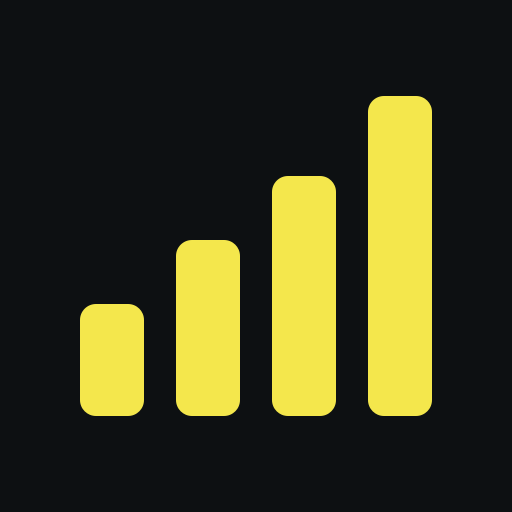
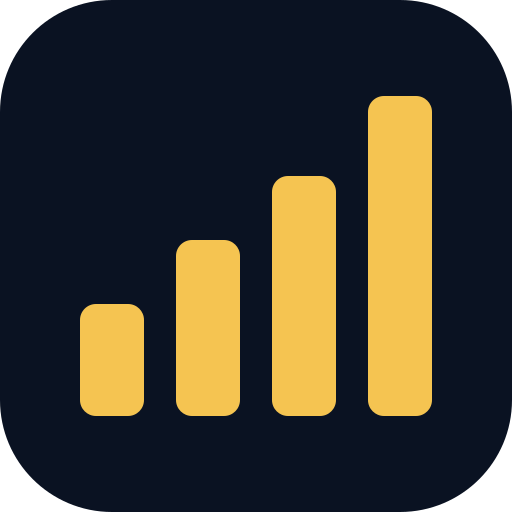
Navy & gold: Tenqay's palette
The trial is over: gold #f5c451 on navy #0a1222 is the terminal's palette,
the welcome tour's too (on navy, no longer on black), and the favicon's and
the app icons'. The palette chooser leaves SET; the charts keep their own
colours, as under every palette.

diff --git a/app/io.css b/app/io.css
@@ -2692,7 +2692,7 @@ body:has(.io) { margin: 0; background: var(--bg, #fff); }
 .candle-plot:hover .candle-nav, .candle-nav:focus-within { opacity: 1; }
 .candle-nav button, .candle-latest, .candle-auto {
   min-width: 24px; height: 22px; padding: 0 6px; font: inherit; font-family: var(--mono); font-size: 12px; line-height: 1;
-  color: var(--ink); background: color-mix(in srgb, var(--bg, #0d1012) 86%, transparent); border: 1px solid var(--line-strong); border-radius: 3px; cursor: pointer;
+  color: var(--ink); background: color-mix(in srgb, var(--bg, #0a1222) 86%, transparent); border: 1px solid var(--line-strong); border-radius: 3px; cursor: pointer;
 }
 .candle-nav button:hover, .candle-latest:hover, .candle-auto:hover { border-color: var(--ink-3); }
 .candle-latest { position: absolute; right: 10px; bottom: 10px; z-index: 4; }
@@ -2702,20 +2702,20 @@ body:has(.io) { margin: 0; background: var(--bg, #fff); }
 .drawing-position { fill-opacity: .17; stroke: none; }
 .study-notes .drawing-handle {
   width: 9px; height: 9px; padding: 0; transform: translate(-50%, -50%);
-  background: var(--bg, #0d1012); border: 1.5px solid var(--draw, #4c8dff); border-radius: 50%;
+  background: var(--bg, #0a1222); border: 1.5px solid var(--draw, #4c8dff); border-radius: 50%;
 }
 .study-notes .drawing-label {
   transform: translate(-50%, 4px); padding: 2px 5px; border-radius: 2px; white-space: nowrap;
-  color: var(--ink); background: color-mix(in srgb, var(--bg, #0d1012) 82%, transparent);
+  color: var(--ink); background: color-mix(in srgb, var(--bg, #0a1222) 82%, transparent);
 }
 .study-notes .drawing-label-left { transform: none; margin-left: 2px; }
 .study-notes .drawing-label[data-tone="good"] { color: var(--gain); }
 .study-notes .drawing-label[data-tone="bad"] { color: var(--loss); }
-.study-notes .drawing-text { transform: translateY(-100%); font-family: var(--sans, inherit); font-weight: 600; white-space: pre; text-shadow: 0 0 3px var(--bg, #0d1012); }
+.study-notes .drawing-text { transform: translateY(-100%); font-family: var(--sans, inherit); font-weight: 600; white-space: pre; text-shadow: 0 0 3px var(--bg, #0a1222); }
 .drawing-bar {
   position: absolute; top: 6px; left: 50%; z-index: 5; display: flex; flex-wrap: wrap; align-items: center; gap: 6px; max-width: calc(100% - 12px);
   padding: 4px 6px; transform: translateX(-50%); font-size: var(--fs-micro, 10px);
-  background: color-mix(in srgb, var(--bg, #0d1012) 94%, transparent); border: 1px solid var(--line-strong); border-radius: 3px; cursor: default;
+  background: color-mix(in srgb, var(--bg, #0a1222) 94%, transparent); border: 1px solid var(--line-strong); border-radius: 3px; cursor: default;
 }
 .drawing-bar > button { height: 22px; padding: 0 7px; font: inherit; color: var(--ink); background: transparent; border: 1px solid var(--line-strong); border-radius: 2px; cursor: pointer; }
 .drawing-bar > button[aria-pressed="true"] { color: var(--inverse, #000); background: var(--ink); }
@@ -2731,14 +2731,14 @@ body:has(.io) { margin: 0; background: var(--bg, #fff); }
 .candle-events { position: absolute; left: 0; right: 0; bottom: 0; height: 0; z-index: 3; pointer-events: none; }
 .candle-event {
   position: absolute; bottom: 4px; display: grid; place-items: center; width: 15px; height: 15px; transform: translateX(-50%);
-  font-family: var(--mono); font-size: 9px; font-weight: 700; line-height: 1; color: #0d1012; border-radius: 50%; pointer-events: auto; cursor: default;
+  font-family: var(--mono); font-size: 9px; font-weight: 700; line-height: 1; color: #0a1222; border-radius: 50%; pointer-events: auto; cursor: default;
 }
 .candle-event[data-kind="earnings"] { background: #ffa028; }
 .candle-event[data-kind="dividend"] { bottom: 22px; background: #26a69a; }
 .candle-event:hover { outline: 2px solid var(--ink); outline-offset: 1px; }
 .candle-event-card {
   position: absolute; bottom: 42px; transform: translateX(-50%); padding: 4px 7px; white-space: nowrap; pointer-events: none;
-  font-family: var(--mono); font-size: var(--fs-micro); color: var(--ink); background: var(--bg, #0d1012); border: 1px solid var(--line-strong); border-radius: 2px;
+  font-family: var(--mono); font-size: var(--fs-micro); color: var(--ink); background: var(--bg, #0a1222); border: 1px solid var(--line-strong); border-radius: 2px;
 }
 .candle-event-card b { font-weight: 600; margin-right: 4px; }
 .candle-event-card[data-tone="good"] { border-color: var(--gain); }
@@ -2751,7 +2751,7 @@ body:has(.io) { margin: 0; background: var(--bg, #fff); }
 .candle-plot[data-tool="pick"] { cursor: col-resize; }
 .candle-pick-note {
   position: absolute; top: 8px; left: 50%; z-index: 5; transform: translateX(-50%); padding: 3px 8px; pointer-events: none;
-  font-size: var(--fs-micro); color: var(--inverse, #000); background: var(--amber, #f4e74c); border-radius: 2px;
+  font-size: var(--fs-micro); color: var(--inverse, #000); background: var(--amber, #f5c451); border-radius: 2px;
 }
 /* The candles drawn as paths (CandlePaths in components/io/CandleChart.tsx). */
 .candle-up .candle-wick { fill: none; stroke: var(--gain); stroke-width: 1; }
@@ -2760,7 +2760,7 @@ body:has(.io) { margin: 0; background: var(--bg, #fff); }
 .candle-down .candle-fill { fill: var(--loss); }
 /* The title line a chart picture carries (components/io/chart-export.ts). */
 .candle-export-head { display: flex; align-items: baseline; gap: 10px; padding: 6px 4px 8px; font-family: var(--mono); font-size: 13px; color: var(--ink-2); }
-.candle-export-head b { color: var(--amber, #f4e74c); font-size: 15px; letter-spacing: .02em; }
+.candle-export-head b { color: var(--amber, #f5c451); font-size: 15px; letter-spacing: .02em; }
 .candle-export-head .candle-export-source { margin-left: auto; color: var(--ink-3); font-size: 11px; }
 /* An earnings marker: a button to the company's Earnings reaction, and its card. */
 button.candle-event { padding: 0; border: 0; cursor: pointer; }
@@ -2772,4 +2772,4 @@ button.candle-event { padding: 0; border: 0; cursor: pointer; }
 .candle-event-card .release-grid > b { text-align: right; font-weight: 600; color: var(--ink); margin: 0; }
 .candle-event-card .release-grid > b[data-tone="good"] { color: var(--gain); }
 .candle-event-card .release-grid > b[data-tone="bad"] { color: var(--loss); }
-.candle-event-card .release-hint { margin-top: 3px; color: var(--amber, #f4e74c); font-size: 10px; }
+.candle-event-card .release-hint { margin-top: 3px; color: var(--amber, #f5c451); font-size: 10px; }

diff --git a/app/terminal.css b/app/terminal.css
@@ -39,15 +39,15 @@
   --page: none;
   --radius: 0;
 
-  --bg: #0d1012;
-  --raise: #12161a;
-  --fill: #1a1f24;
-  --line: #1c2126;
-  --line-strong: #2c3238;
-  --ink: #e9edf2;
-  --ink-2: #a1a8b0;
-  --ink-3: #6b737c;
-  --inverse: #0d1012;
+  --bg: #0a1222;
+  --raise: #0e1729;
+  --fill: #142036;
+  --line: #18243a;
+  --line-strong: #26354f;
+  --ink: #e8edf6;
+  --ink-2: #a3aec2;
+  --ink-3: #6c7891;
+  --inverse: #0a1222;
   /*
    * Charts keep the colours they had from the start, whatever the accent of
    * the day: a plot is blue by default, a price green or red by which way it
@@ -65,18 +65,18 @@
   --c6: #38bdf8;
   --c7: #e879f9;
   --c8: #a3e635;
-  --shade: rgba(244, 231, 76, .06);
+  --shade: rgba(245, 196, 81, .06);
   --gain: #2ed47d;
   --loss: #ff5149;
 
   --chart-amber: #ffa028;
   --chart-amber-dim: rgba(255, 160, 40, .55);
-  /* The accent, Tenqay's identity: acid yellow (the names stay: every interface rule reads --amber). */
-  --amber: #f4e74c;
-  --amber-ink: #0d1012;
+  /* The accent, Tenqay's identity: gold on navy (the names stay: every interface rule reads --amber). */
+  --amber: #f5c451;
+  --amber-ink: #0a1222;
   --amber-dim: color-mix(in srgb, var(--amber) 55%, transparent);
   --cyan: #5ec8ff;
-  --head: #111519;
+  --head: #0c1426;
 
   color-scheme: dark;
   font-size: var(--fs-md);
@@ -86,8 +86,8 @@
 }
 
 /* The page behind the page, whatever the document site's theme says. */
-:root:has(.io.term), :root[data-theme]:has(.io.term) { background: var(--page-bg, #0d1012); }
-body:has(.io.term) { background: var(--page-bg, #0d1012); }
+:root:has(.io.term), :root[data-theme]:has(.io.term) { background: #0a1222; }
+body:has(.io.term) { background: #0a1222; }
 
 .term ::selection { background: var(--amber); color: var(--amber-ink); }
 .term :focus-visible { outline: 1px solid var(--amber); outline-offset: 1px; border-radius: 0; }
@@ -1013,7 +1013,6 @@ body:has(.io.term) { background: var(--page-bg, #0d1012); }
 /* --- Settings (SET) ------------------------------------------------------- */
 
 .t-settings { align-items: start; grid-template-areas:
-  "palette palette palette palette palette palette palette palette palette palette palette palette"
   "display display display display display display start start start start start start"
   "alerts alerts alerts alerts alerts alerts account account account account account account"
   "kept kept kept kept kept kept kept kept kept kept kept kept"
@@ -1037,7 +1036,7 @@ body:has(.io.term) { background: var(--page-bg, #0d1012); }
 .t-about p { color: var(--ink-2); margin-bottom: 8px; }
 .t-about code { color: var(--amber); font: inherit; }
 .t-about a { color: var(--amber); }
-@media (max-width: 1100px) { .t-settings { grid-template-areas: "palette" "display" "start" "alerts" "account" "kept" "keys" "about"; grid-template-columns: minmax(0, 1fr); } .t-set-sample { margin-left: 0; } }
+@media (max-width: 1100px) { .t-settings { grid-template-areas: "display" "start" "alerts" "account" "kept" "keys" "about"; grid-template-columns: minmax(0, 1fr); } .t-set-sample { margin-left: 0; } }
 
 /*
  * A finger is not a pointer: on a touch screen the tape, the function keys,
@@ -1514,8 +1513,8 @@ body:has(.io.term) { background: var(--page-bg, #0d1012); }
 .t-keystats-notes .stat-note { margin: 4px 0 0; }
 
 /* TOUR · the welcome tour (components/term/Welcome.tsx): on black, without the terminal's frame; each step a live screenshot. */
-:root body .io.term.t-tour { --bg: #000; --raise: #0a0a0b; --fill: #141416; --head: #060607; --line: #1a1a1d; --line-strong: #2a2a2e; min-height: 100vh; background: #000; }
-:root:has(.t-tour), :root[data-theme]:has(.t-tour), body:has(.t-tour) { background: #000; }
+:root body .io.term.t-tour { min-height: 100vh; background: var(--bg); }
+:root:has(.t-tour), :root[data-theme]:has(.t-tour), body:has(.t-tour) { background: #0a1222; }
 .t-wel { width: 100%; max-width: 1240px; min-height: 100vh; margin: 0 auto; padding: 22px 20px 28px; display: grid; grid-template-columns: minmax(0, 1fr); grid-template-rows: auto auto minmax(0, 1fr) auto; gap: 14px; }
 .t-wel-progress { height: 3px; background: var(--line-strong); }
 .t-wel-progress > span { display: block; height: 100%; background: var(--amber); transition: width .25s ease; }
@@ -1679,15 +1678,3 @@ html.t-noscroll, html.t-noscroll body { overflow: hidden; }
 .t-keystats [data-drawable]:hover dd { text-decoration: underline dotted; text-underline-offset: 2px; }
 .t-keystats [data-drawable][aria-pressed="true"] { background: color-mix(in srgb, var(--amber) 14%, transparent); }
 .t-keystats [data-drawable][aria-pressed="true"] dt { color: var(--amber); }
-
-/* The palettes on trial (SET): each a small terminal in its own colours. */
-.t-palettes { display: grid; grid-template-columns: repeat(auto-fill, minmax(180px, 1fr)); gap: 8px; }
-.t-palette { display: grid; gap: 4px; padding: 0 0 8px; text-align: left; font: inherit; border: 2px solid; cursor: pointer; }
-.t-palette[aria-checked="true"] { box-shadow: 0 0 0 1px var(--amber); }
-.t-palette-bar { display: flex; align-items: center; gap: 8px; padding: 4px 6px; border-bottom: 1px solid; font-size: var(--fs-micro); }
-.t-palette-bar b { padding: 0 4px; font-weight: 700; }
-.t-palette-bar i, .t-palette-bar em { font-style: normal; font-weight: 600; }
-.t-palette-body { display: grid; gap: 4px; margin: 2px 6px; padding: 6px; border: 1px solid; }
-.t-palette-body i { display: block; height: 6px; }
-.t-palette-name { padding: 0 8px; font-size: var(--fs-xs); font-weight: 700; }
-.t-palette-note { padding: 0 8px; font-size: var(--fs-micro); line-height: 1.3; }

diff --git a/components/term/TermSettings.tsx b/components/term/TermSettings.tsx
@@ -8,7 +8,6 @@ import { SYNC_EVENT, syncStatus } from "@/components/io/AccountSync";
 import { parseRules, RULES_KEY } from "@/lib/alert-rules";
 import { COMPANY_FUNCTIONS, GLOBAL_FUNCTIONS } from "@/lib/term/command";
 import { START_SCREENS, useTermPrefs, writePrefs, type Clock, type Density, type UpDown } from "./prefs";
-import { PALETTES } from "@/lib/term/palettes";
 import { Panel } from "./Panel";
 
 /**
@@ -130,34 +129,6 @@ export function TermSettings() {
   return (
     <div className="t-grid t-settings">
       {message ? <p className="t-set-message" role="status">{message} <button type="button" className="t-alrt-link" onClick={() => setMessage(null)}>Dismiss</button></p> : null}
-
-      {/* The palettes on trial: the one kept will become Tenqay's own, and this choice will go. */}
-      <Panel code="SET" title="Colour palette · trial" area="palette">
-        <div className="t-panel-pad">
-          <div className="t-palettes" role="radiogroup" aria-label="Colour palette">
-            {PALETTES.map((palette) => (
-              <button
-                key={palette.id} type="button" role="radio" aria-checked={prefs.palette === palette.id}
-                className="t-palette" onClick={() => writePrefs({ palette: palette.id })}
-                style={{ background: palette.bg, borderColor: prefs.palette === palette.id ? palette.accent : palette.lineStrong, color: palette.ink }}
-              >
-                <span className="t-palette-bar" style={{ background: palette.head, borderBottomColor: palette.line }}>
-                  <b style={{ background: palette.accent, color: palette.accentInk }}>TQ</b>
-                  <i style={{ color: palette.accent }}>AAPL</i>
-                  <em style={{ color: palette.ink2 }}>GP</em>
-                </span>
-                <span className="t-palette-body" style={{ background: palette.raise, borderColor: palette.line }}>
-                  <i style={{ background: palette.fill }} />
-                  <i style={{ background: palette.fill, width: "60%" }} />
-                </span>
-                <span className="t-palette-name">{palette.name}</span>
-                <span className="t-palette-note" style={{ color: palette.ink3 }}>{palette.note}</span>
-              </button>
-            ))}
-          </div>
-          <p className="t-study-note">Applied at once to the whole terminal; the charts keep their own colours. Kept on this device.</p>
-        </div>
-      </Panel>
 
       <Panel code="SET" title="Display" area="display">
         <div className="t-panel-pad t-set-body">

diff --git a/components/term/Economy.tsx b/components/term/Economy.tsx
@@ -228,7 +228,7 @@ export function EconomyScreen() {
   );
 }
 
-const COLORS = { blue: "var(--c1, #4c8dff)", amber: "var(--amber, #f4e74c)", teal: "var(--c3, #2bb3a3)", violet: "var(--c4, #9a7bff)" };
+const COLORS = { blue: "var(--c1, #4c8dff)", amber: "var(--amber, #f5c451)", teal: "var(--c3, #2bb3a3)", violet: "var(--c4, #9a7bff)" };
 
 function EconCharts({ series }: { series: EconSeries[] }) {
   const find = (id: string) => series.find((entry) => entry.id === id);
@@ -301,7 +301,7 @@ function EconHistory({ name, events, onClose }: { name: string; events: EconEven
   const values = points.map((point) => point.value);
   const format = (value: number | null | undefined) => (value == null ? "—" : percent ? `${value.toFixed(2)}%` : series?.unit === "index" ? value.toFixed(1) : series?.id === "JTS000000000000000JOL" ? `${(value / 1000).toFixed(2)}M` : `${value >= 0 ? "+" : "−"}${Math.abs(Math.round(value)).toLocaleString("en-US")}K`);
   const kind: "bar" | "line" = spec && (spec.transform === "mom" || spec.transform === "diff" || quarterly) ? "bar" : "line";
-  const chartSpec = { id: id ?? "series", label: spec?.label ?? name, kind, axis: "left" as const, color: "var(--amber, #f4e74c)", value: () => null };
+  const chartSpec = { id: id ?? "series", label: spec?.label ?? name, kind, axis: "left" as const, color: "var(--amber, #f5c451)", value: () => null };
   const preset: Preset = { id: `history-${id}`, title: spec?.label ?? name, left: percent ? "percent" : "shares", series: [chartSpec] };
   const data: ChartData = {
     labels: points.map((point) => periodLabel(point.period)),

diff --git a/components/term/TermShell.tsx b/components/term/TermShell.tsx
@@ -1,7 +1,6 @@
 "use client";
 
-import { Fragment, useEffect, useMemo, useRef, useState, useSyncExternalStore } from "react";
-import { paletteById, paletteVariables } from "@/lib/term/palettes";
+import { Fragment, useEffect, useRef, useState, useSyncExternalStore } from "react";
 import { COMPANY_FUNCTIONS, GLOBAL_FUNCTIONS, hrefFor, LAUNCHPAD_PANELS, terminalHref } from "@/lib/term/command";
 import { marketState, newYorkTime } from "@/lib/term/market-clock";
 import { useStoredWatchlist } from "@/components/io/watchlist";
@@ -312,17 +311,11 @@ export function TermShell({ ticker = null, bare = false, children }: {
 }) {
   const [helpOpen, setHelpOpen] = useState(false);
   const prefs = useTermPrefs();
-  // The palette on trial: its colours as the terminal's variables, and the page behind it in its background.
-  const palette = paletteById(prefs.palette);
-  const paletteStyle = useMemo(() => paletteVariables(palette) as React.CSSProperties, [palette]);
-  useEffect(() => {
-    document.documentElement.style.setProperty("--page-bg", palette.bg);
-  }, [palette]);
   useFocusedPanel();
   useTerminalLinks();
   useTableKeys();
   return (
-    <div className="io term" data-density={prefs.density} data-colors={prefs.colors} data-palette={prefs.palette} style={paletteStyle}>
+    <div className="io term" data-density={prefs.density} data-colors={prefs.colors}>
       <a className="skip-link" href="#main-content">Skip to main content</a>
       <div className="t-top">
         <div className="t-bar">

diff --git a/components/term/prefs.ts b/components/term/prefs.ts
@@ -1,7 +1,6 @@
 "use client";
 
 import { useSyncExternalStore } from "react";
-import { PALETTES } from "@/lib/term/palettes";
 
 /**
  * The terminal's display preferences, kept on this device (a phone and a
@@ -21,13 +20,11 @@ export interface TermPrefs {
   tape: boolean;
   /** Where the terminal opens when arrived at from elsewhere: a screen, or a company's page. */
   start: string;
-  /** The colour palette, on trial (lib/term/palettes.ts). */
-  palette: string;
 }
 
 export const PREFS_KEY = "finscope.term.prefs.v1";
 const EVENT = "finscope:term-prefs";
-export const DEFAULT_PREFS: TermPrefs = { density: "standard", colors: "green-red", clock: "ny", tape: true, start: "/t", palette: "acid" };
+export const DEFAULT_PREFS: TermPrefs = { density: "standard", colors: "green-red", clock: "ny", tape: true, start: "/t" };
 
 export const START_SCREENS: Array<{ path: string; label: string }> = [
   { path: "/t", label: "HOME · launchpad" },
@@ -53,7 +50,6 @@ export function readPrefs(): TermPrefs {
     clock: value.clock === "local" || value.clock === "both" ? value.clock : "ny",
     tape: value.tape !== false,
     start: typeof value.start === "string" && /^\/t(?:\/[\w./-]*)?$/.test(value.start) ? value.start : "/t",
-    palette: PALETTES.some((palette) => palette.id === value.palette) ? value.palette! : "acid",
   };
   cached = { raw, prefs };
   return prefs;

diff --git a/components/term/Rotation.tsx b/components/term/Rotation.tsx
@@ -95,7 +95,7 @@ export function Rotation() {
               <g key={fund.symbol} opacity={dim ? 0.15 : 1} onPointerEnter={() => setFocus(fund.symbol)} onPointerLeave={() => setFocus(null)}>
                 <path d={line(fund.path)} fill="none" stroke={fund.color} strokeWidth={1.4} />
                 {fund.path.slice(0, -1).map((point) => <circle key={point.t} cx={x(point.ratio)} cy={y(point.momentum)} r={1.8} fill={fund.color} />)}
-                <circle cx={x(last.ratio)} cy={y(last.momentum)} r={5} fill={fund.color} stroke="#0d1012" strokeWidth={1} />
+                <circle cx={x(last.ratio)} cy={y(last.momentum)} r={5} fill={fund.color} stroke="#0a1222" strokeWidth={1} />
                 <text x={x(last.ratio) + 7} y={y(last.momentum) + 3} className="t-rrg-tag" fill={fund.color}>{fund.symbol}</text>
               </g>
             );

diff --git a/app/free-screener.css b/app/free-screener.css
@@ -51,7 +51,7 @@
 .eqs-error { color: var(--loss); }
 
 .eqs-chips { display: flex; flex-wrap: wrap; align-items: center; gap: 4px; padding: 5px 8px; border-top: 1px solid var(--line); }
-.eqs-chip { height: 20px; padding: 0 6px; font: inherit; font-size: var(--fs-micro); color: var(--amber); background: rgba(244, 231, 76, .1); border: 1px solid var(--amber-dim); cursor: pointer; }
+.eqs-chip { height: 20px; padding: 0 6px; font: inherit; font-size: var(--fs-micro); color: var(--amber); background: color-mix(in srgb, var(--amber) 10%, transparent); border: 1px solid var(--amber-dim); cursor: pointer; }
 .eqs-chip:hover { border-color: var(--loss); color: var(--loss); }
 .eqs-chip[data-invalid] { border-color: var(--loss); color: var(--loss); }
 .eqs-chip span { margin-left: 3px; }

diff --git a/components/io/chart-export.ts b/components/io/chart-export.ts
@@ -26,7 +26,7 @@ async function renderChart(figure: HTMLElement, title: { symbol: string; detail:
   // appendChild and insertBefore: the Worker's types give append and prepend another meaning.
   for (const part of [symbol, detail, source]) head.appendChild(part);
   figure.insertBefore(head, figure.firstChild);
-  const background = getComputedStyle(figure.closest(".term") ?? document.body).getPropertyValue("--bg").trim() || "#0d1012";
+  const background = getComputedStyle(figure.closest(".term") ?? document.body).getPropertyValue("--bg").trim() || "#0a1222";
   const blob = await toBlob(figure, {
     pixelRatio: 2,
     backgroundColor: background,

diff --git a/app/manifest.ts b/app/manifest.ts
@@ -7,8 +7,8 @@ export default function manifest(): MetadataRoute.Manifest {
     description: "Filed financials, market prices and valuation for US-listed companies.",
     start_url: "/t",
     display: "standalone",
-    background_color: "#0d1012",
-    theme_color: "#0d1012",
+    background_color: "#0a1222",
+    theme_color: "#0a1222",
     icons: [
       { src: "/favicon.svg", sizes: "any", type: "image/svg+xml" },
       { src: "/icon-192.png", sizes: "192x192", type: "image/png" },

diff --git a/lib/term/drawings.ts b/lib/term/drawings.ts
@@ -85,7 +85,7 @@ export interface Drawing {
   locked?: boolean;
 }
 
-export const DRAWING_COLORS = ["#4c8dff", "#f4e74c", "#26a69a", "#ef5350", "#ff9800", "#ab47bc", "#e9edf2", "#9aa3ad"];
+export const DRAWING_COLORS = ["#4c8dff", "#f5c451", "#26a69a", "#ef5350", "#ff9800", "#ab47bc", "#e9edf2", "#9aa3ad"];
 export const DEFAULT_DRAWING_COLOR = DRAWING_COLORS[0];
 
 /** Drawn with a press alone; the others are drawn by dragging, or by a click at each end. */
